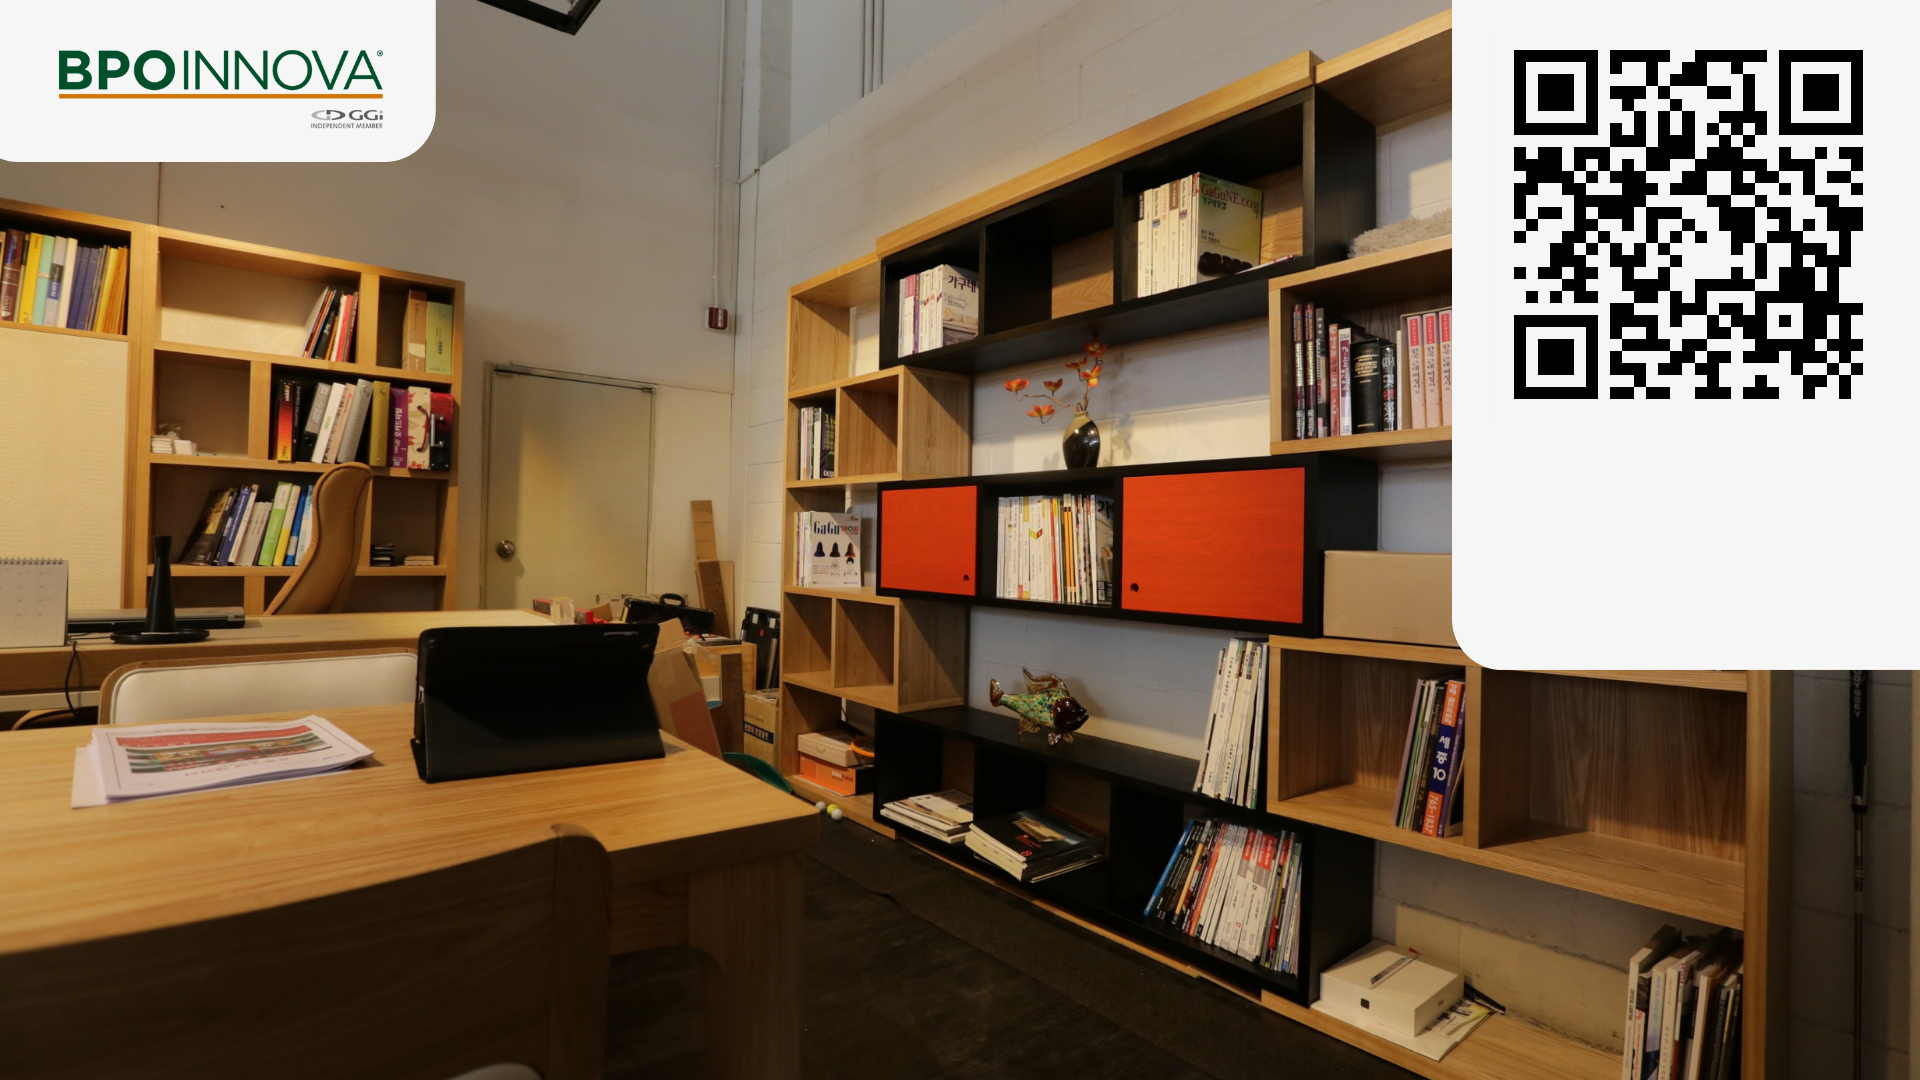
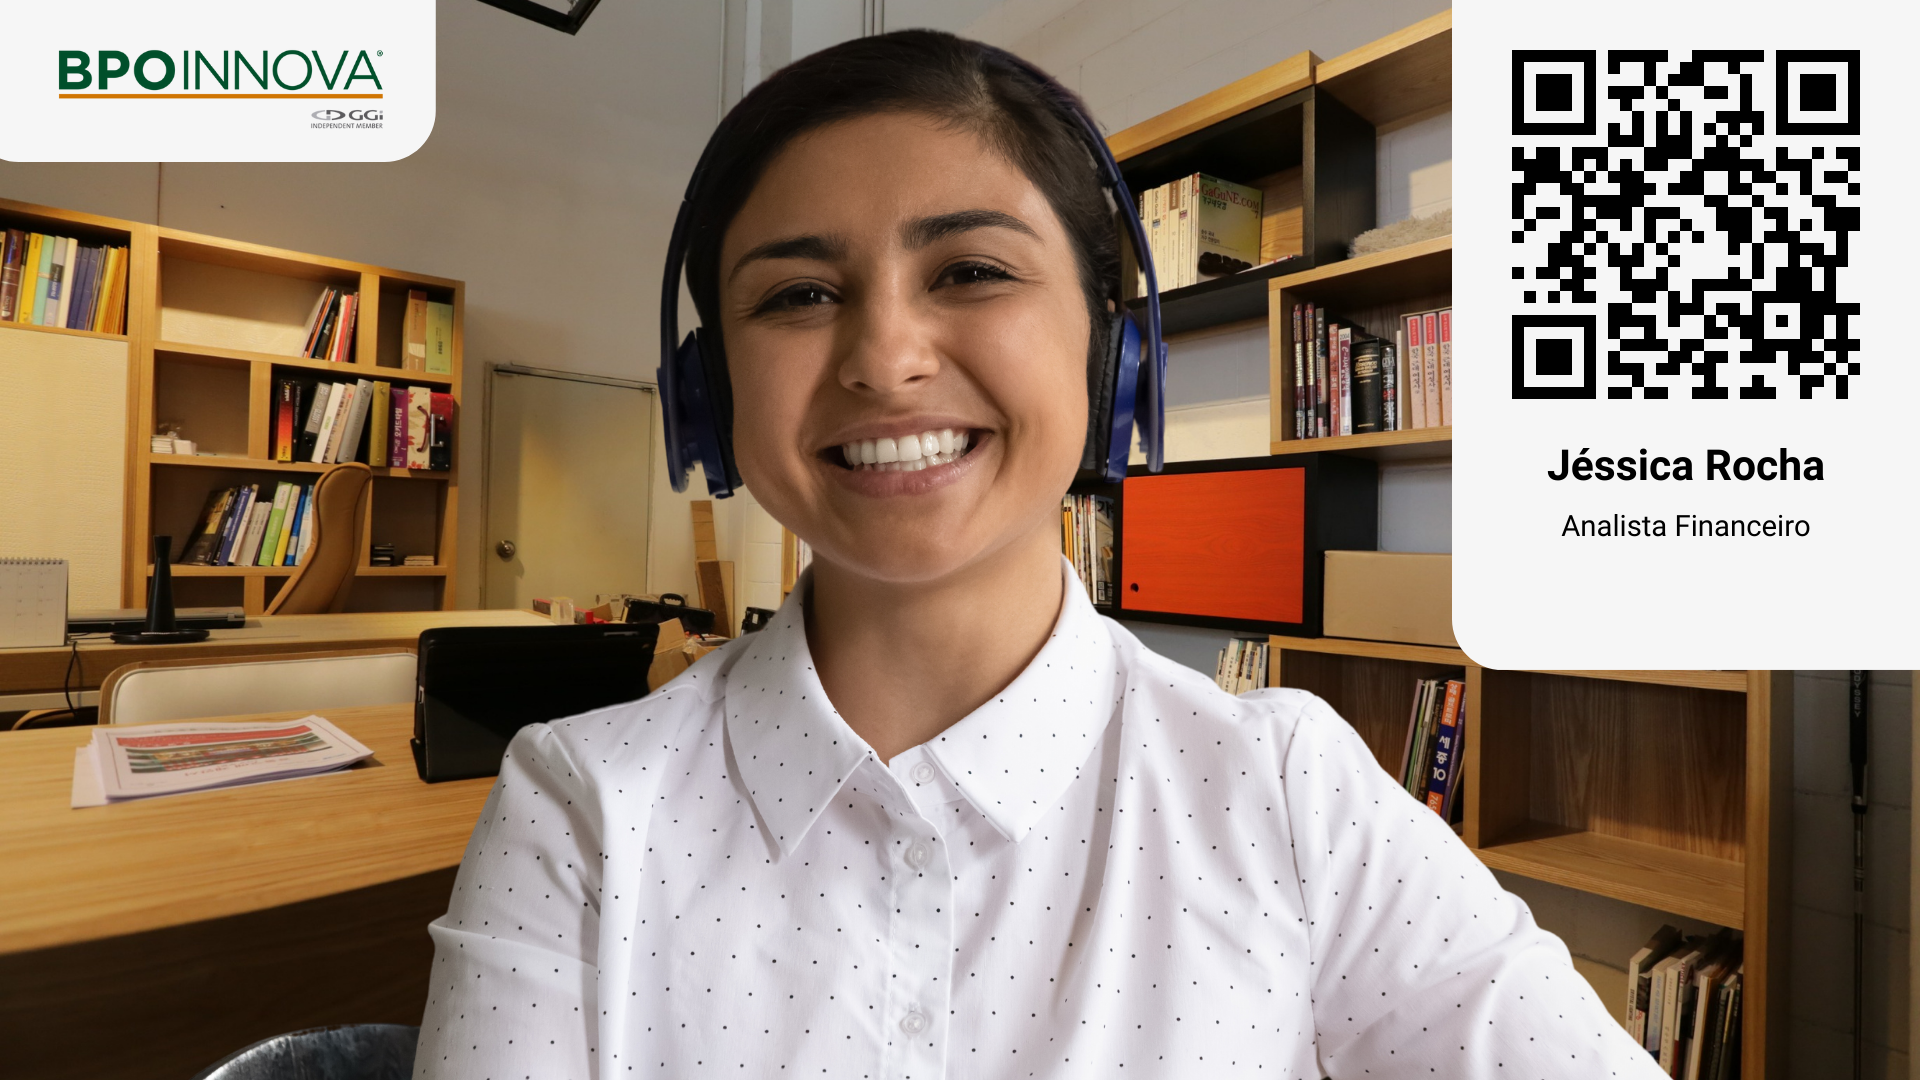
Ajustado código JS e alterado imagens

diff --git a/js/app.js b/js/app.js
@@ -5,33 +5,24 @@ const nomeText = document.getElementById('nome-text');
 const departamentoText = document.getElementById('departamento-text');
 
 form.addEventListener('submit', function (event) {
-    
   event.preventDefault();
 
   const nome = document.getElementById('nome').value;
   const departamento = document.getElementById('departamento').value;
 
-  // Atualiza o texto nos locais mapeados
-  nomeText.textContent = nome;
-  departamentoText.textContent = departamento;
-
-  // Crie uma imagem com o texto inserido pelo usuário
   const canvas = document.createElement('canvas');
   const context = canvas.getContext('2d');
   const image = new Image();
-  image.src = '/background.png';
+  image.src = 'img/background.png';
   image.onload = function () {
     canvas.width = image.width;
     canvas.height = image.height;
     context.drawImage(image, 0, 0);
-    
-    const nomeCoords = [1514, 438, 1863, 495];
-    const departamentoCoords = [1509, 498, 1858, 555];
 
-    const nomeX = (nomeCoords[0] + nomeCoords[2]) / 2;
-    const nomeY = (nomeCoords[1] + nomeCoords[3]) / 2;
-    const departamentoX = (departamentoCoords[0] + departamentoCoords[2]) / 2;
-    const departamentoY = (departamentoCoords[1] + departamentoCoords[3]) / 2;
+    const nomeX = canvas.width / 2;
+    const nomeY = canvas.height / 2 - 30;
+    const departamentoX = canvas.width / 2;
+    const departamentoY = canvas.height / 2 + 30;
 
     context.fillStyle = '#000000'; // Cor do texto
     context.font = 'bold 30px Arial';
@@ -39,20 +30,17 @@ form.addEventListener('submit', function (event) {
     context.fillText(nome, nomeX, nomeY);
     context.fillText(departamento, departamentoX, departamentoY);
 
-    // Exiba o preview da imagem de fundo gerada
     previewDiv.innerHTML = '';
     const previewImage = new Image();
     previewImage.src = canvas.toDataURL('image/png');
     previewImage.className = 'img-fluid';
     previewDiv.appendChild(previewImage);
 
-    // Converta o canvas em uma imagem usando html2canvas
     html2canvas(canvas).then(function (canvas) {
       resultadoDiv.innerHTML = '';
       resultadoDiv.style.display = 'block';
       resultadoDiv.appendChild(canvas);
 
-      // Crie um link para download da imagem gerada
       const link = document.createElement('a');
       link.href = canvas.toDataURL('image/png');
       link.download = 'background_teams.png';
